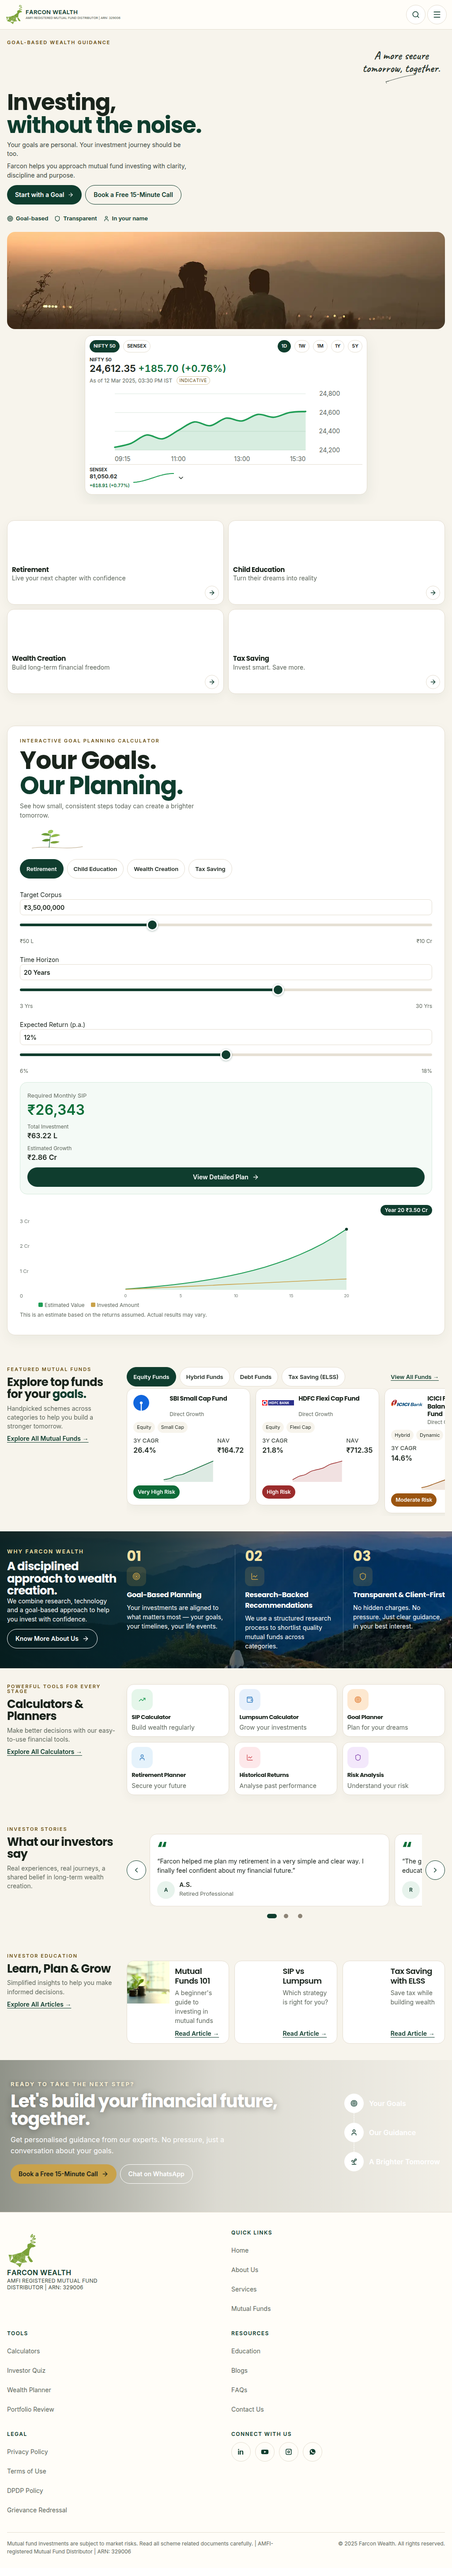
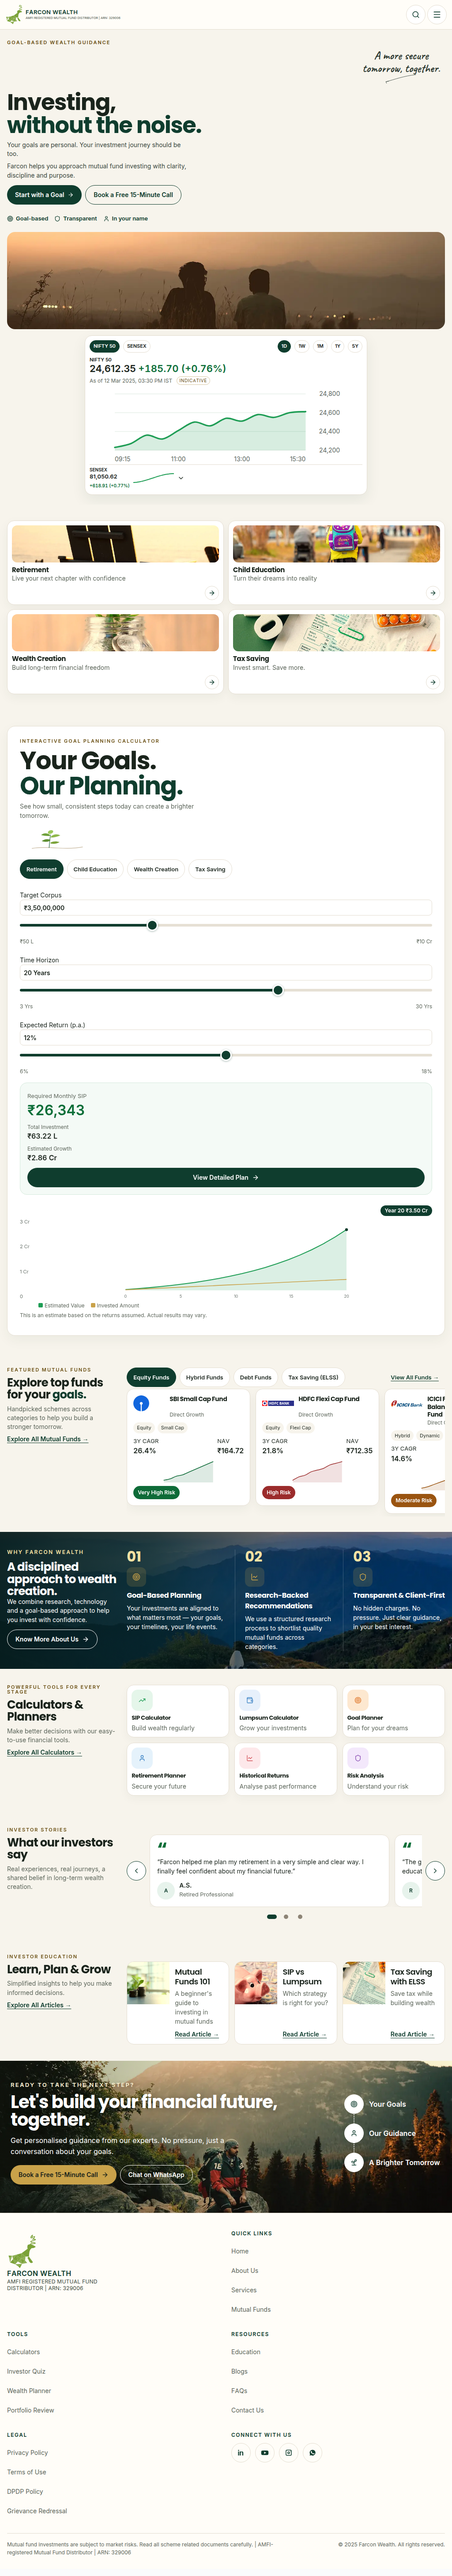
Place the desktop couple in the hero gap and show the Why ridge.
The photo is a sharp panel between the copy and the market card at 1100px and up, with a soft fade into the goal band. The Why hiker is cropped out and the summit flag sits on the right. Layout under 1100px is unchanged.

diff --git a/src/farcon.css b/src/farcon.css
@@ -1130,27 +1130,37 @@ html { scroll-behavior: smooth; }
 @media (min-width: 1100px) {
   .hf-hero-photo, .is-home .hf-hero-photo {
     position: absolute;
-    inset: 0;
+    left: 40%;
+    right: auto;
+    top: 0;
+    bottom: 0;
     z-index: 0;
-    width: 100%;
+    width: 20%;
     height: 100%;
     margin: 0;
     border-radius: 0;
-    object-position: 52% 68%;
-    transform: translate3d(0, var(--hero-shift, 0px), 0) scale(1.03);
-    transform-origin: center center;
+    object-fit: cover;
+    object-position: 52% 58%;
+    transform: none;
+    -webkit-mask-image:
+      linear-gradient(90deg, transparent 0%, #000 12%, #000 88%, transparent 100%),
+      linear-gradient(180deg, #000 0%, #000 72%, transparent 100%);
+    -webkit-mask-composite: source-in;
+    mask-image:
+      linear-gradient(90deg, transparent 0%, #000 12%, #000 88%, transparent 100%),
+      linear-gradient(180deg, #000 0%, #000 72%, transparent 100%);
+    mask-composite: intersect;
   }
   .hf-hero-scrim, .is-home .hf-hero-scrim {
     display: block;
     position: absolute;
     inset: 0;
     z-index: 1;
-    background:
-      linear-gradient(180deg, transparent 0%, transparent 62%, rgba(247, 244, 236, 0.55) 86%, #F7F4EC 100%),
-      linear-gradient(90deg, #F7F4EC 0%, #F7F4EC 45%, rgba(247, 244, 236, 0.97) 52%, rgba(247, 244, 236, 0.45) 62%, rgba(247, 244, 236, 0) 74%);
+    pointer-events: none;
+    background: linear-gradient(180deg, transparent 0%, transparent 78%, rgba(247, 244, 236, 0.55) 92%, #F7F4EC 100%);
   }
-  .hf-hero-inner { position: relative; z-index: 2; }
-  .hf-hero-copy { max-width: min(560px, 44vw); }
+  .hf-hero-inner, .is-home .hf-hero-inner { position: relative; z-index: 2; }
+  .hf-hero-copy, .is-home .hf-hero-copy { max-width: 460px; }
 }
 @media (max-width: 1099px) {
   .hf-hero, .is-home .hf-hero { display: flex; flex-direction: column; background: #F7F4EC; min-height: 0; }
@@ -1178,6 +1188,19 @@ html { scroll-behavior: smooth; }
 .hf-why-photo { object-position: 78% 62%; opacity: 1; }
 .hf-why::after, .is-home .hf-why::after {
   background: linear-gradient(90deg, rgba(6, 28, 26, 0.9) 0%, rgba(8, 36, 32, 0.72) 34%, rgba(8, 32, 28, 0.28) 62%, rgba(6, 24, 22, 0.08) 100%);
+}
+@media (min-width: 1100px) {
+  .hf-why-photo, .is-home .hf-why-photo { object-position: 100% 52%; opacity: 1; }
+  .hf-why::after, .is-home .hf-why::after {
+    background: linear-gradient(90deg, rgba(6, 22, 20, 0.94) 0%, rgba(6, 24, 22, 0.88) 58%, rgba(6, 28, 26, 0.5) 76%, rgba(8, 36, 32, 0.16) 90%, rgba(8, 36, 32, 0.02) 100%);
+  }
+  .hf-flag, .is-home .hf-flag {
+    display: block;
+    width: 64px;
+    height: 108px;
+    top: 28px;
+    right: 22px;
+  }
 }
 .hf-indicative {
   display: inline-block;

diff --git a/src/components/sections/HomeView.tsx b/src/components/sections/HomeView.tsx
@@ -605,10 +605,9 @@ export const HomeView: React.FC<HomeViewProps> = ({ navigate, onOpenConsultation
           fetchPriority="low"
           decoding="async"
         />
-        <svg className="hf-flag" viewBox="0 0 1200 640" preserveAspectRatio="xMaxYMid slice" aria-hidden="true">
-          <path d="M760 560 C 820 470, 780 390, 900 330 S 860 180, 1020 120 S 980 40, 1120 28" fill="none" stroke="rgba(255,255,255,0.78)" strokeWidth="2.5" strokeDasharray="1.5 8" strokeLinecap="round" />
-          <path d="M1112 28 v92" stroke="#F3D48A" strokeWidth="3" />
-          <path d="M1112 28 h52 l-12 16 12 16 h-52 z" fill="#F3D48A" />
+        <svg className="hf-flag" viewBox="0 0 72 120" aria-hidden="true">
+          <path d="M16 116 V6" stroke="#F3D48A" strokeWidth="3" strokeLinecap="round" />
+          <path d="M16 8 h46 l-12 16 12 16 H16 z" fill="#F3D48A" />
         </svg>
         <div className="hf-why-inner hf-split">
           <div>
